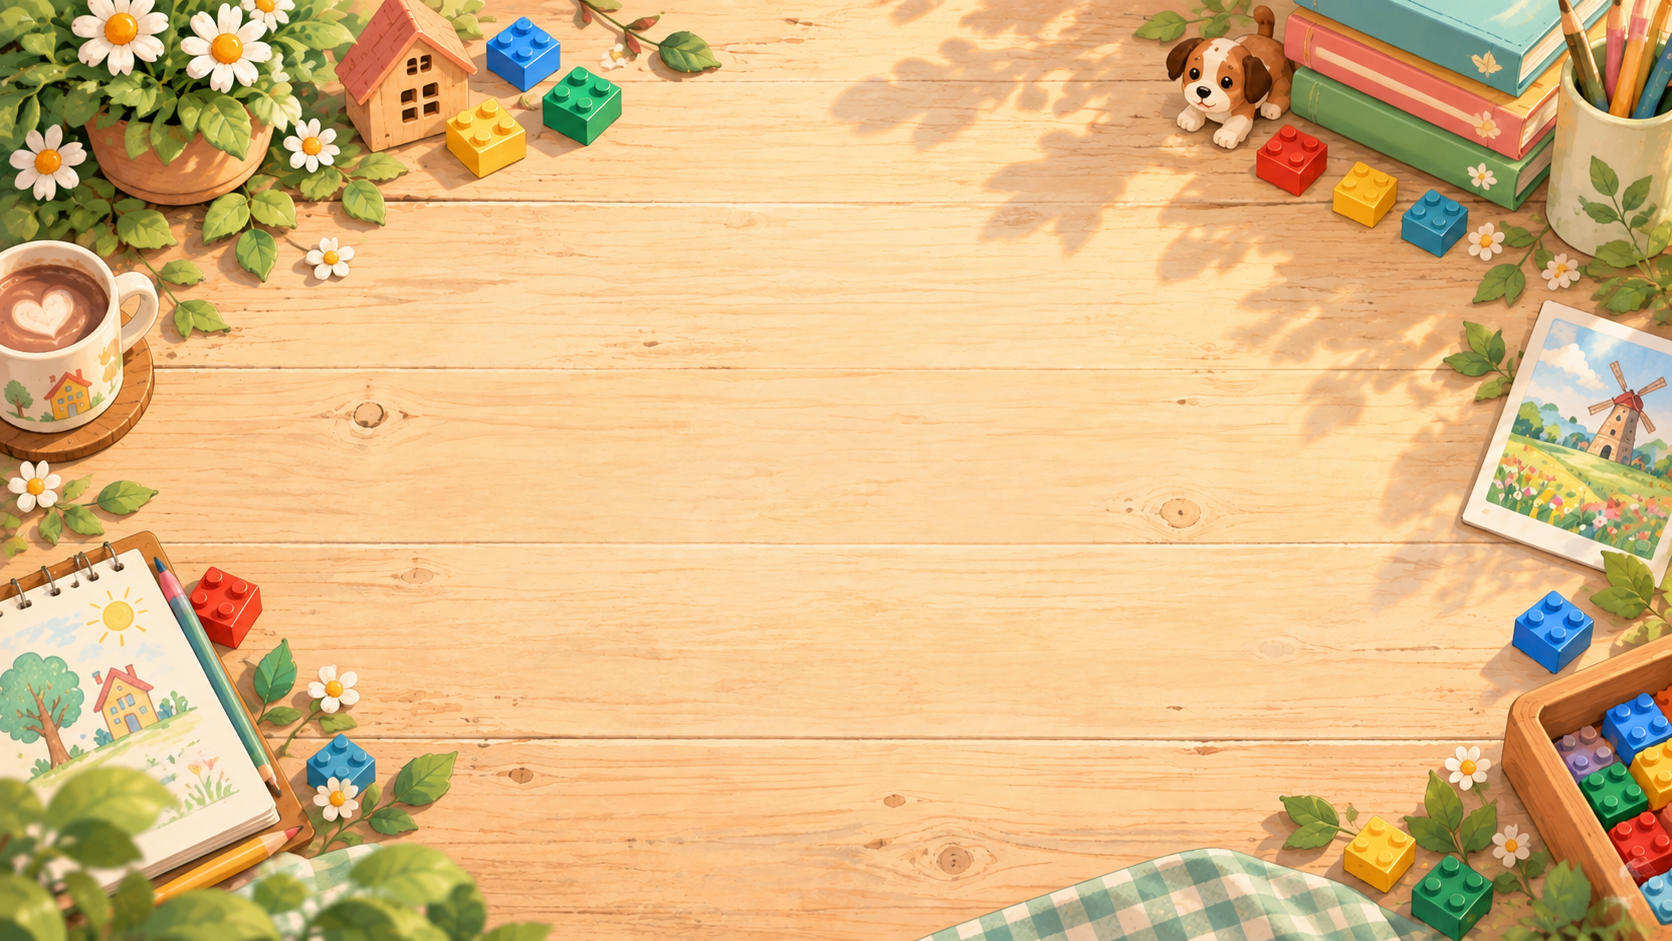
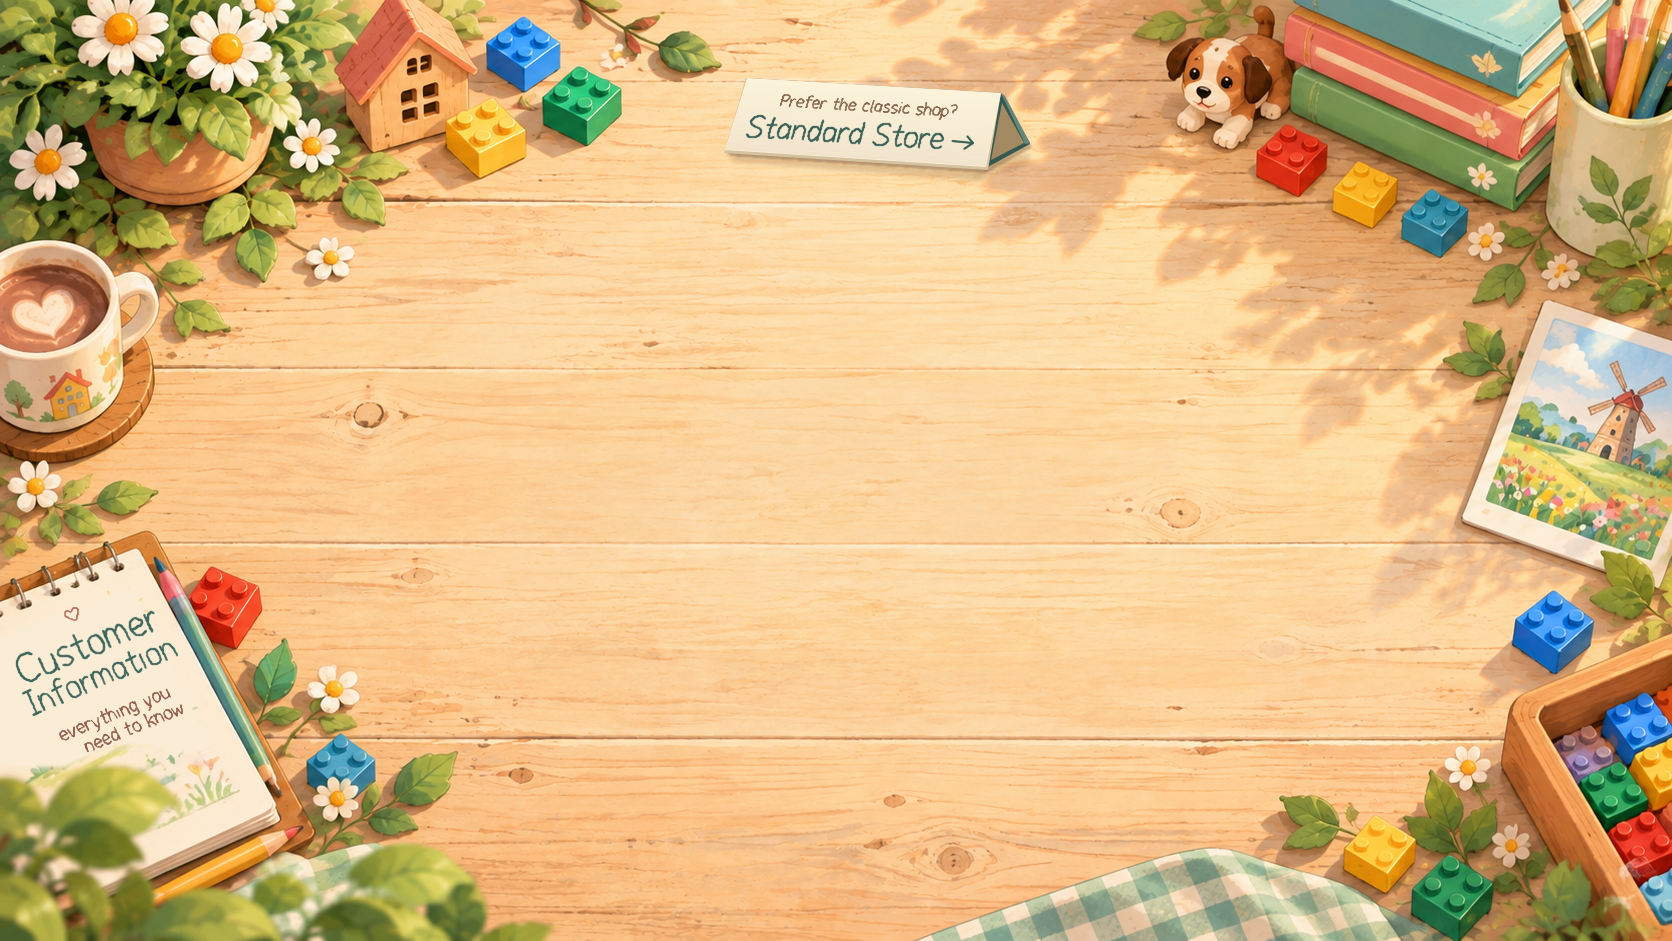
feat: add tabletop navigation artwork

Changed region(s): [[0.4354, 0.0616, 0.622, 0.2157], [0.0, 0.6164, 0.1244, 0.8321]]

diff --git a/src/App.css b/src/App.css
@@ -158,8 +158,8 @@
 /* Large desktop keeps the catalogue readable before secondary objects. */
 @media (min-width: 1200px) {
   .catalogue-stage {
-    /* Asymmetric stage space lifts the entire book by 36px without scaling it. */
-    padding-bottom: 72px;
+    /* Keep the desktop book slightly below the tabletop sign without changing its size. */
+    padding-bottom: 24px;
     --book-width: min(
       75vw,
       calc(62svh * 9 / 5),
